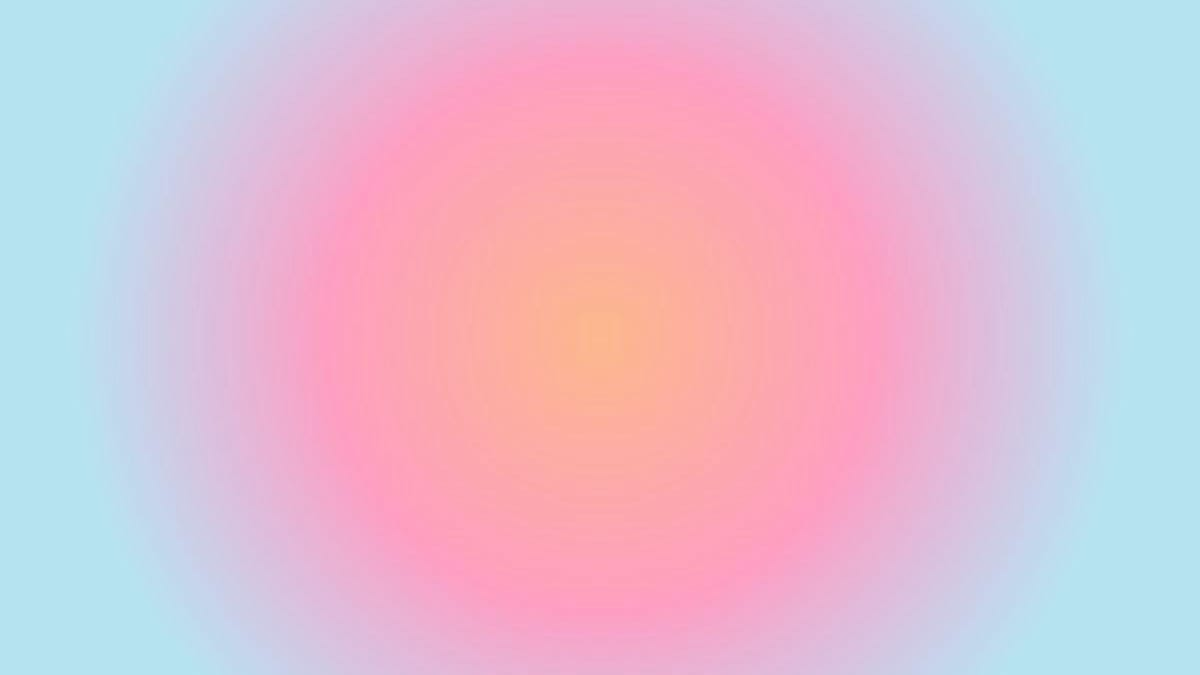
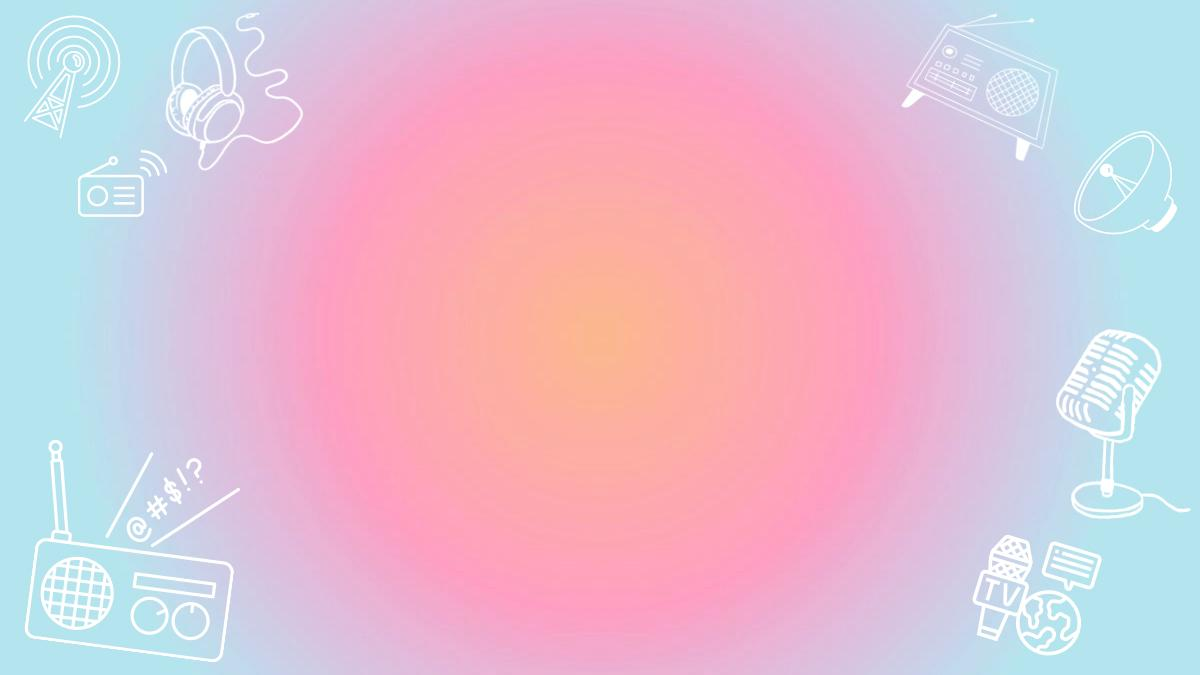
Add files via upload

diff --git a/css/styles.css b/css/styles.css
@@ -61,7 +61,7 @@
   --bs-font-sans-serif: system-ui, -apple-system, "Segoe UI", Roboto, "Helvetica Neue", "Noto Sans", "Liberation Sans", Arial, sans-serif, "Apple Color Emoji", "Segoe UI Emoji", "Segoe UI Symbol", "Noto Color Emoji";
   --bs-font-monospace: SFMono-Regular, Menlo, Monaco, Consolas, "Liberation Mono", "Courier New", monospace;
   --bs-gradient: linear-gradient(180deg, rgba(255, 255, 255, 0.15), rgba(255, 255, 255, 0));
-  --bs-body-font-family: Nunito, -apple-system, BlinkMacSystemFont, Segoe UI, Roboto, Helvetica Neue, Arial, sans-serif, Apple Color Emoji, Segoe UI Emoji, Segoe UI Symbol, Noto Color Emoji;
+  --bs-body-font-family: Nunito, -apple-system, BlinkMacSystemFont, Segoe UI, Roboto, Helvetica Neue,'Varela Round', sans-serif, Apple Color Emoji, Segoe UI Emoji, Segoe UI Symbol, Noto Color Emoji;
   --bs-body-font-size: 1rem;
   --bs-body-font-weight: 400;
   --bs-body-line-height: 1.5;
@@ -10977,6 +10977,7 @@ html {
 
 body {
   letter-spacing: 0.0625em;
+  font-family: 'Times New Roman', Times, serif;
 }
 
 #mainNav {
@@ -11073,15 +11074,14 @@ body {
 }
 
 .masthead h1, .masthead .h1 {
-  font-family: "Varela Round", -apple-system, BlinkMacSystemFont, "Segoe UI", Roboto, "Helvetica Neue", Arial, sans-serif, "Apple Color Emoji", "Segoe UI Emoji", "Segoe UI Symbol", "Noto Color Emoji";
+  font-family: "Varela Round", -apple-system, BlinkMacSystemFont, "Segoe UI", Roboto, "Helvetica Neue", 'Times New Roman', Times, serif, "Apple Color Emoji", "Segoe UI Emoji", "Segoe UI Symbol", "Noto Color Emoji";
   font-size: 2.5rem;
   line-height: 2.5rem;
   letter-spacing: 0.8rem;
-  background: linear-gradient(rgba(255, 255, 255, 0.9), rgba(255, 255, 255, 0));
-  -webkit-text-fill-color: transparent;
-  -webkit-background-clip: text;
-          background-clip: text;
+  color: #4B0082; /* Cambiado a morado oscuro */
+  font-family: 'Times New Roman', Times, serif;
 }
+
 .masthead h2, .masthead .h2 {
   max-width: 20rem;
   font-size: 1rem;
@@ -11252,3 +11252,5 @@ body {
 .small-h1 {
   font-size: 1.75rem; /* Ajusta el tamaño según tus preferencias */
 }
+
+

diff --git a/index.html b/index.html
@@ -10,10 +10,10 @@
         <!-- Font Awesome icons (free version)-->
         <script src="https://use.fontawesome.com/releases/v6.3.0/js/all.js" crossorigin="anonymous"></script>
         <!-- Google fonts-->
-        <link href="https://fonts.googleapis.com/css?family=Varela+Round" rel="stylesheet" />
-        <link href="https://fonts.googleapis.com/css?family=Nunito:200,200i,300,300i,400,400i,600,600i,700,700i,800,800i,900,900i" rel="stylesheet" />
+
         <!-- Core theme CSS (includes Bootstrap)-->
         <link href="css/styles.css" rel="stylesheet" />
+
     </head>
     <body id="page-top">
         <!-- Navigation-->
@@ -39,14 +39,13 @@
             <div class="container px-4 px-lg-5 d-flex h-100 align-items-center justify-content-center">
                 <div class="d-flex justify-content-center">
                     <div class="text-center">
-                        <!-- Aplicando estilo en línea para reducir el tamaño del h1 -->
-                        <h1 class="text-white-50 mx-auto mt-2 mb-5" style="font-size: 1.75rem;">Descubre el mundo de la radio</h1>
+                        <!-- Clase aplicada para manejar estilos desde el CSS -->
+                        <h1 class="masthead-title" style="font-size: 3rem;">Descubre el mundo de la radio</h1>
                         <a class="btn btn-primary" href="#about">Empieza a explorar</a>
                     </div>
                 </div>
             </div>
         </header>
-
         
         <!-- About-->
         <section class="about-section text-center" id="about">
